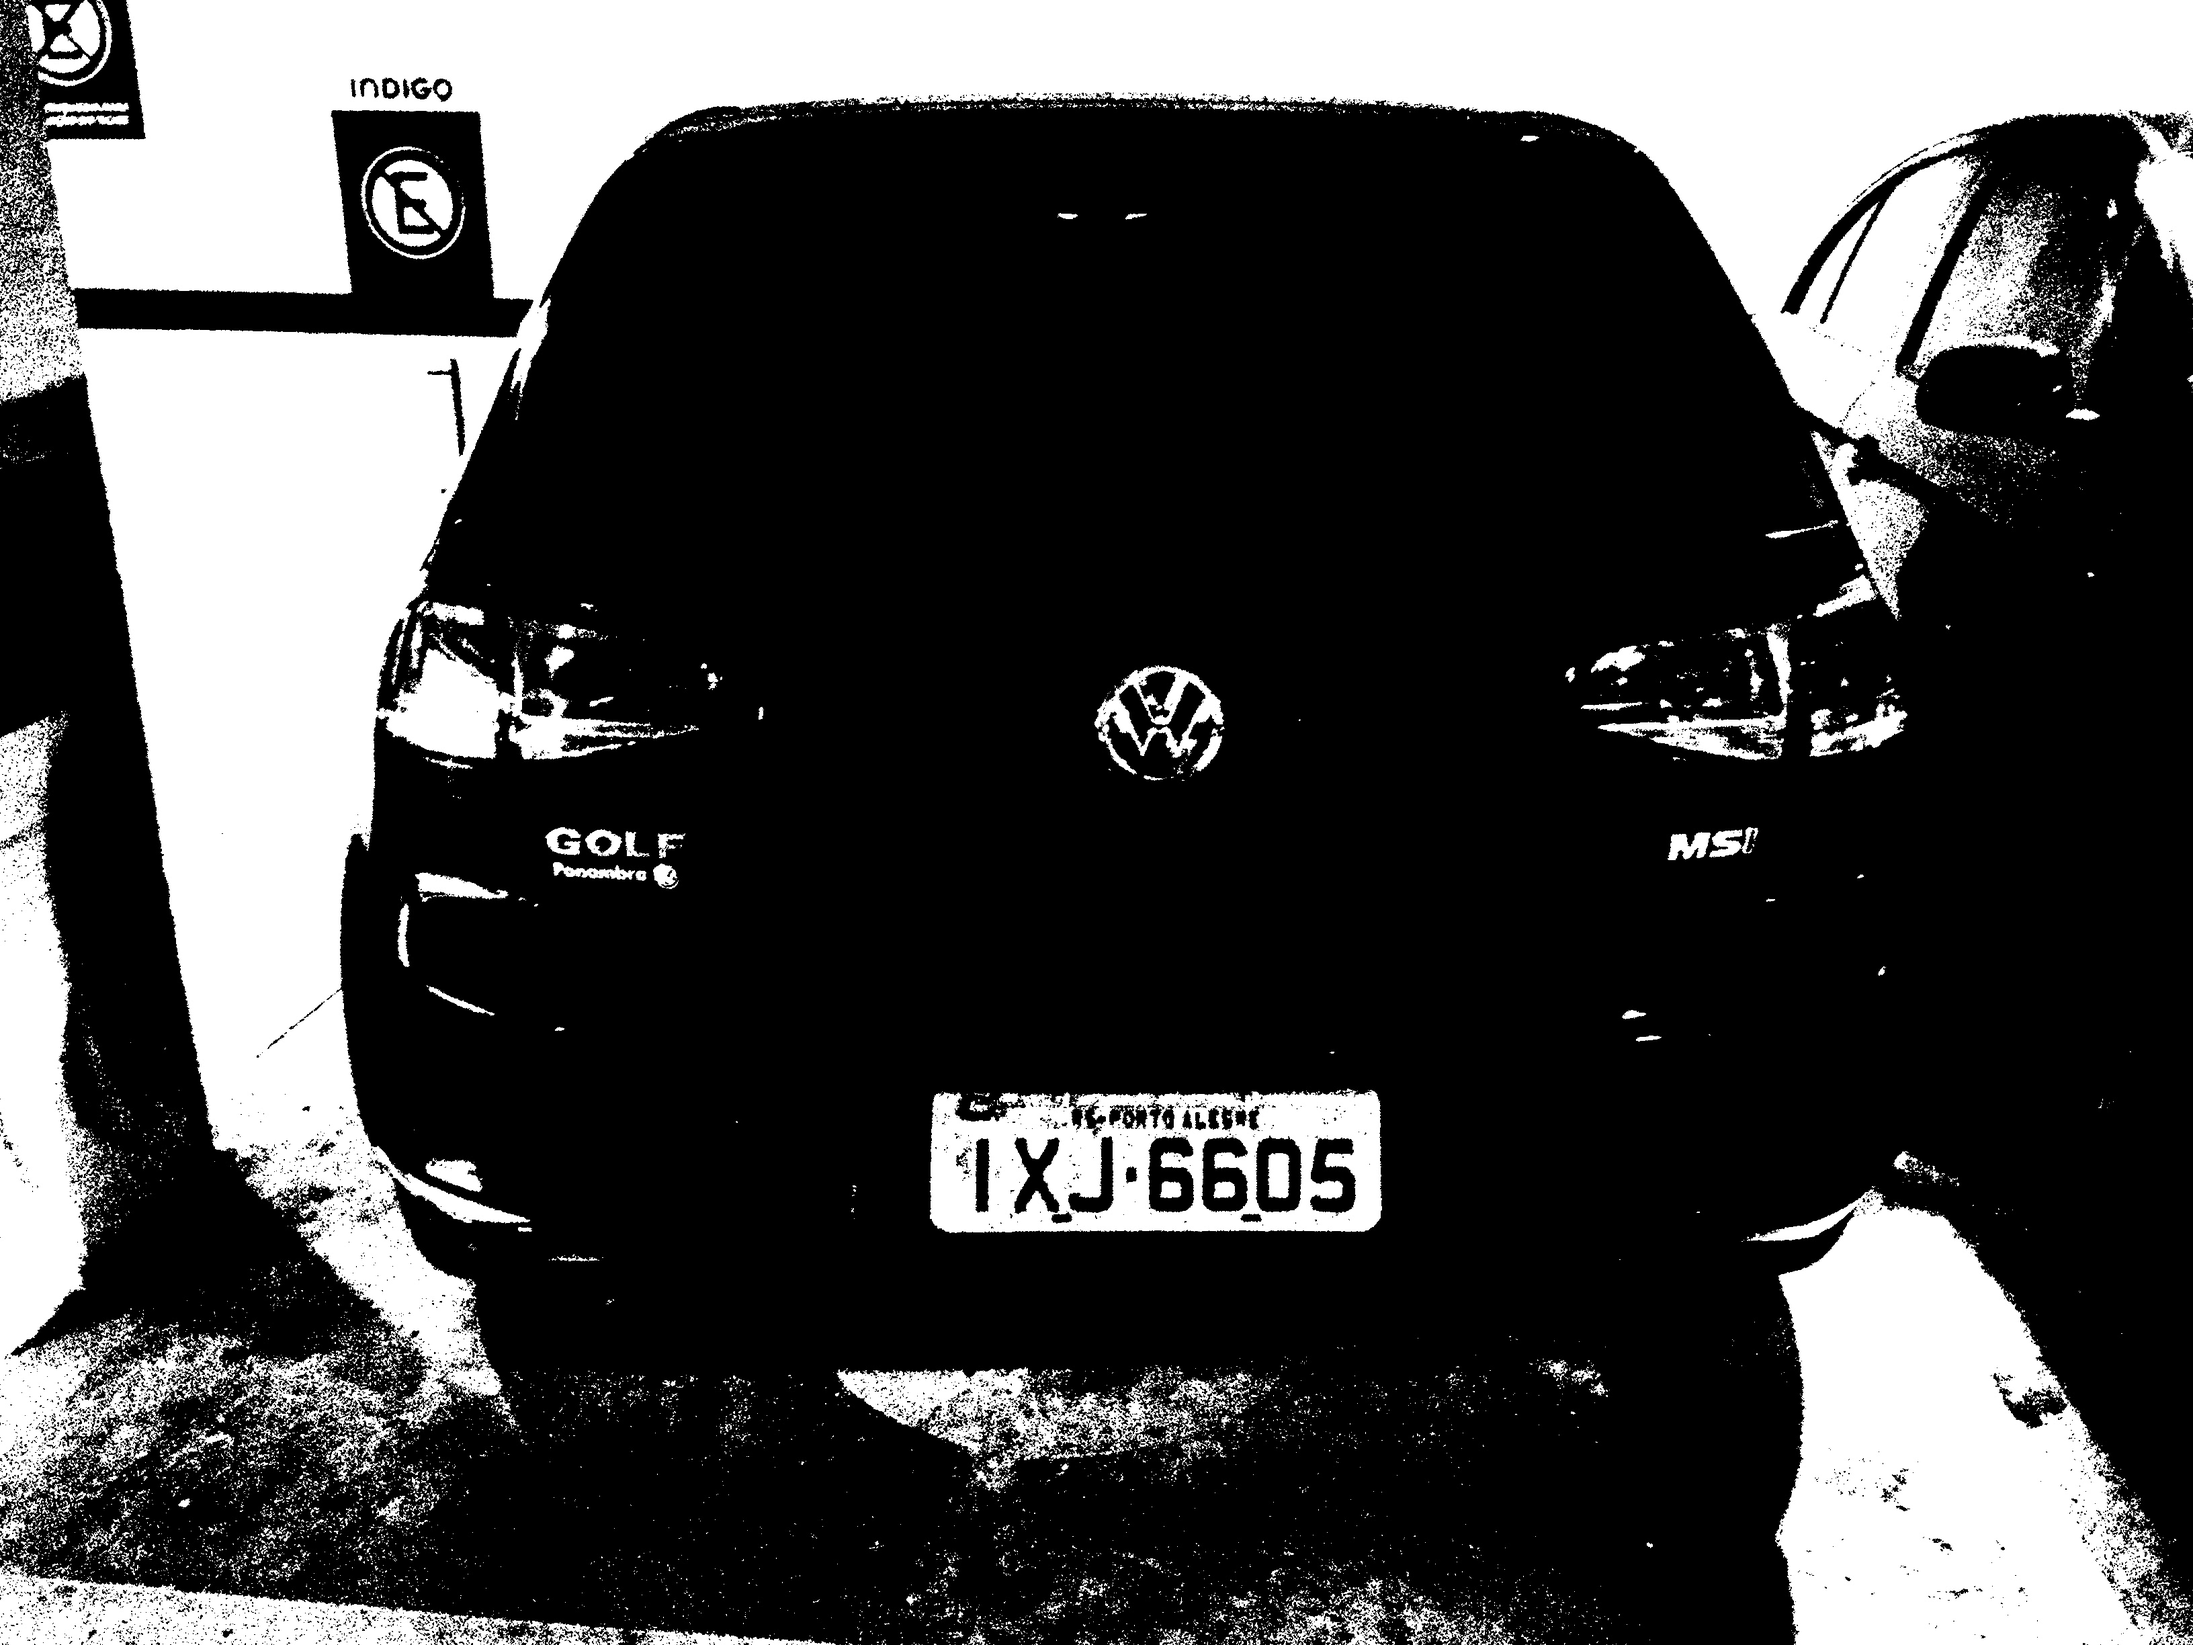
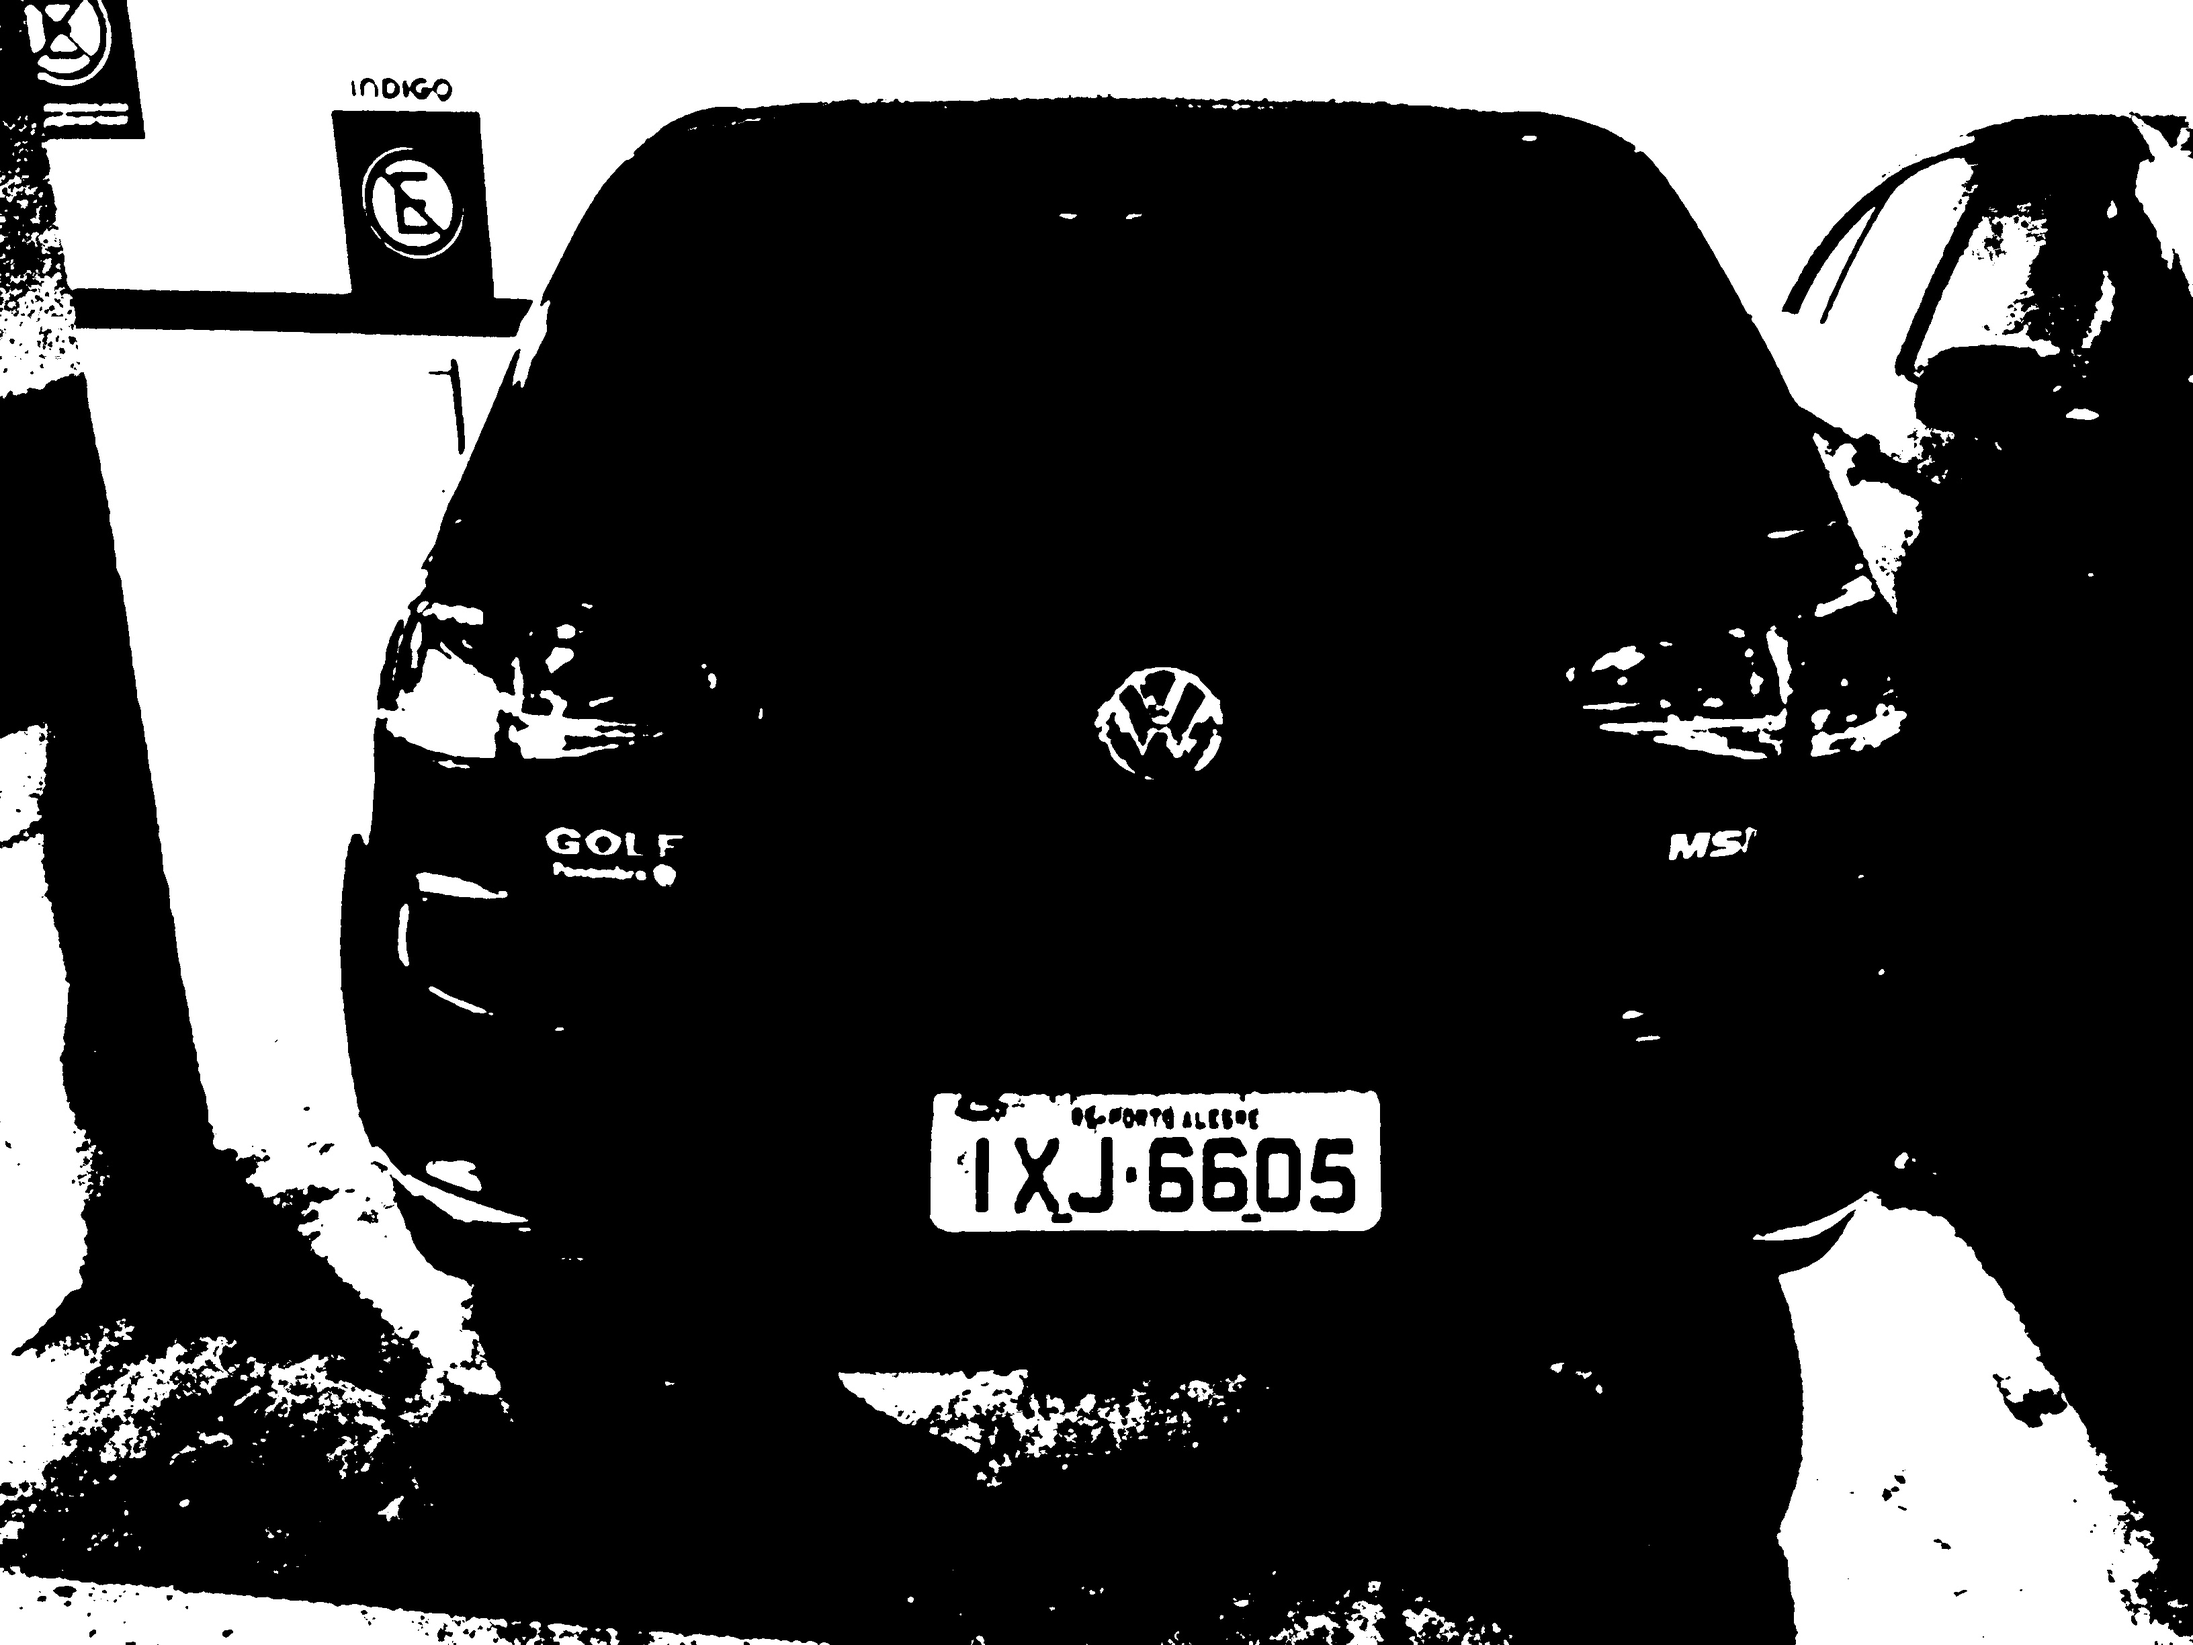
Add image filled by octave

diff --git a/src/test.py b/src/test.py
@@ -2,6 +2,7 @@ import cv2
 import numpy
 from PIL import Image
 import pytesseract
+from scipy import ndimage
 
 def tesseract():
     letters = cv2.imread("letras.png")
@@ -11,18 +12,27 @@ def tesseract():
     print(pytesseract.image_to_string(Image.fromarray(numbers), None, False, "-c tessedit_char_whitelist=0123456789 -psm 6"))
 
 def main():
-    image = cv2.imread("full_car.JPG")
+    image = cv2.imread("full_car.jpg")
+
     gray_image = convert_grayscale(image)
     cv2.imwrite('grayscale.jpg', gray_image)
-    equalized_image = apply_histogram_equalization(gray_image)
+
+    bilateral_image = apply_bilateral_filter(gray_image)
+    cv2.imwrite('bilateral.jpg', bilateral_image)
+
+    equalized_image = apply_histogram_equalization(bilateral_image)
     cv2.imwrite('histogram_eq.jpg', equalized_image)
+
     binarized_image = binarize_image(equalized_image)
     cv2.imwrite('binarized_image.jpg', binarized_image)
+
     sobel_image = apply_sobel_edge_detection(binarized_image)
     cv2.imwrite('sobel_image.jpg', sobel_image)
+
     dilated_image = apply_dilation(sobel_image)
     cv2.imwrite('dilated_image.jpg', dilated_image)
-    filled_image = fill_image(dilated_image)
+
+    filled_image = flood_fill(dilated_image)
     cv2.imwrite('filled_image.jpg', filled_image)
 
 def test():
@@ -83,6 +93,9 @@ def test_fill():
 def convert_grayscale(image):
     return cv2.cvtColor(image, cv2.COLOR_BGR2GRAY)
 
+def apply_bilateral_filter(image):
+    return cv2.bilateralFilter(image, 9, 75, 75)
+
 def apply_histogram_equalization(image):
     clahe = cv2.createCLAHE(clipLimit=2.0, tileGridSize=(8,8))
     return clahe.apply(image)
@@ -118,7 +131,37 @@ def fill_image(image):
     im_out = image | im_floodfill_inv
     return im_out
 
+def flood_fill(test_array, four_way=False):
+    matth_array = cv2.bitwise_not(test_array)
+
+    input_array = numpy.copy(matth_array)
+
+    h_max = numpy.max(input_array * 2.0)
+
+    data_mask = numpy.isfinite(input_array)
+    inside_mask = ndimage.binary_erosion(
+        data_mask,
+        structure=numpy.array([[1, 1, 1], [1, 1, 1], [1, 1, 1]]).astype(numpy.bool))
+    edge_mask = (data_mask & ~inside_mask)
+
+    output_array = numpy.copy(input_array)
+    output_array[inside_mask] = h_max
+
+    output_old_array = numpy.copy(input_array)
+    output_old_array.fill(0)
+
+    if four_way:
+        el = numpy.array([[0, 1, 0], [1, 1, 1], [0, 1, 0]]).astype(numpy.bool)
+    else:
+        el = numpy.array([[1, 1, 1], [1, 1, 1], [1, 1, 1]]).astype(numpy.bool)
+        while not numpy.array_equal(output_old_array, output_array):
+            output_old_array = numpy.copy(output_array)
+            output_array = numpy.maximum(
+            input_array,
+            ndimage.grey_erosion(output_array, size=(3, 3), footprint=el))
+            return output_array
+
 if __name__ == "__main__":
     # test()
-    # main()
-    tesseract()
+    main()
+    # tesseract()

diff --git a/src/teste2.py b/src/teste2.py
@@ -1,0 +1,24 @@
+import cv2
+import numpy as np
+
+img = cv2.imread('dilated_image_jpg.png')
+gray = cv2.cvtColor(img,cv2.COLOR_BGR2GRAY)
+edges = cv2.Canny(gray,50,150,apertureSize = 3)
+
+cv2.imwrite('edges.jpg',edges)
+
+lines = cv2.HoughLines(edges,1,np.pi/180,200)
+
+for rho,theta in lines[0]:
+    a = np.cos(theta)
+    b = np.sin(theta)
+    x0 = a*rho
+    y0 = b*rho
+    x1 = int(x0 + 1000*(-b))
+    y1 = int(y0 + 1000*(a))
+    x2 = int(x0 - 1000*(-b))
+    y2 = int(y0 - 1000*(a))
+
+    cv2.line(img,(x1,y1),(x2,y2),(0,0,255),2)
+
+cv2.imwrite('houghlines3.jpg',img)
